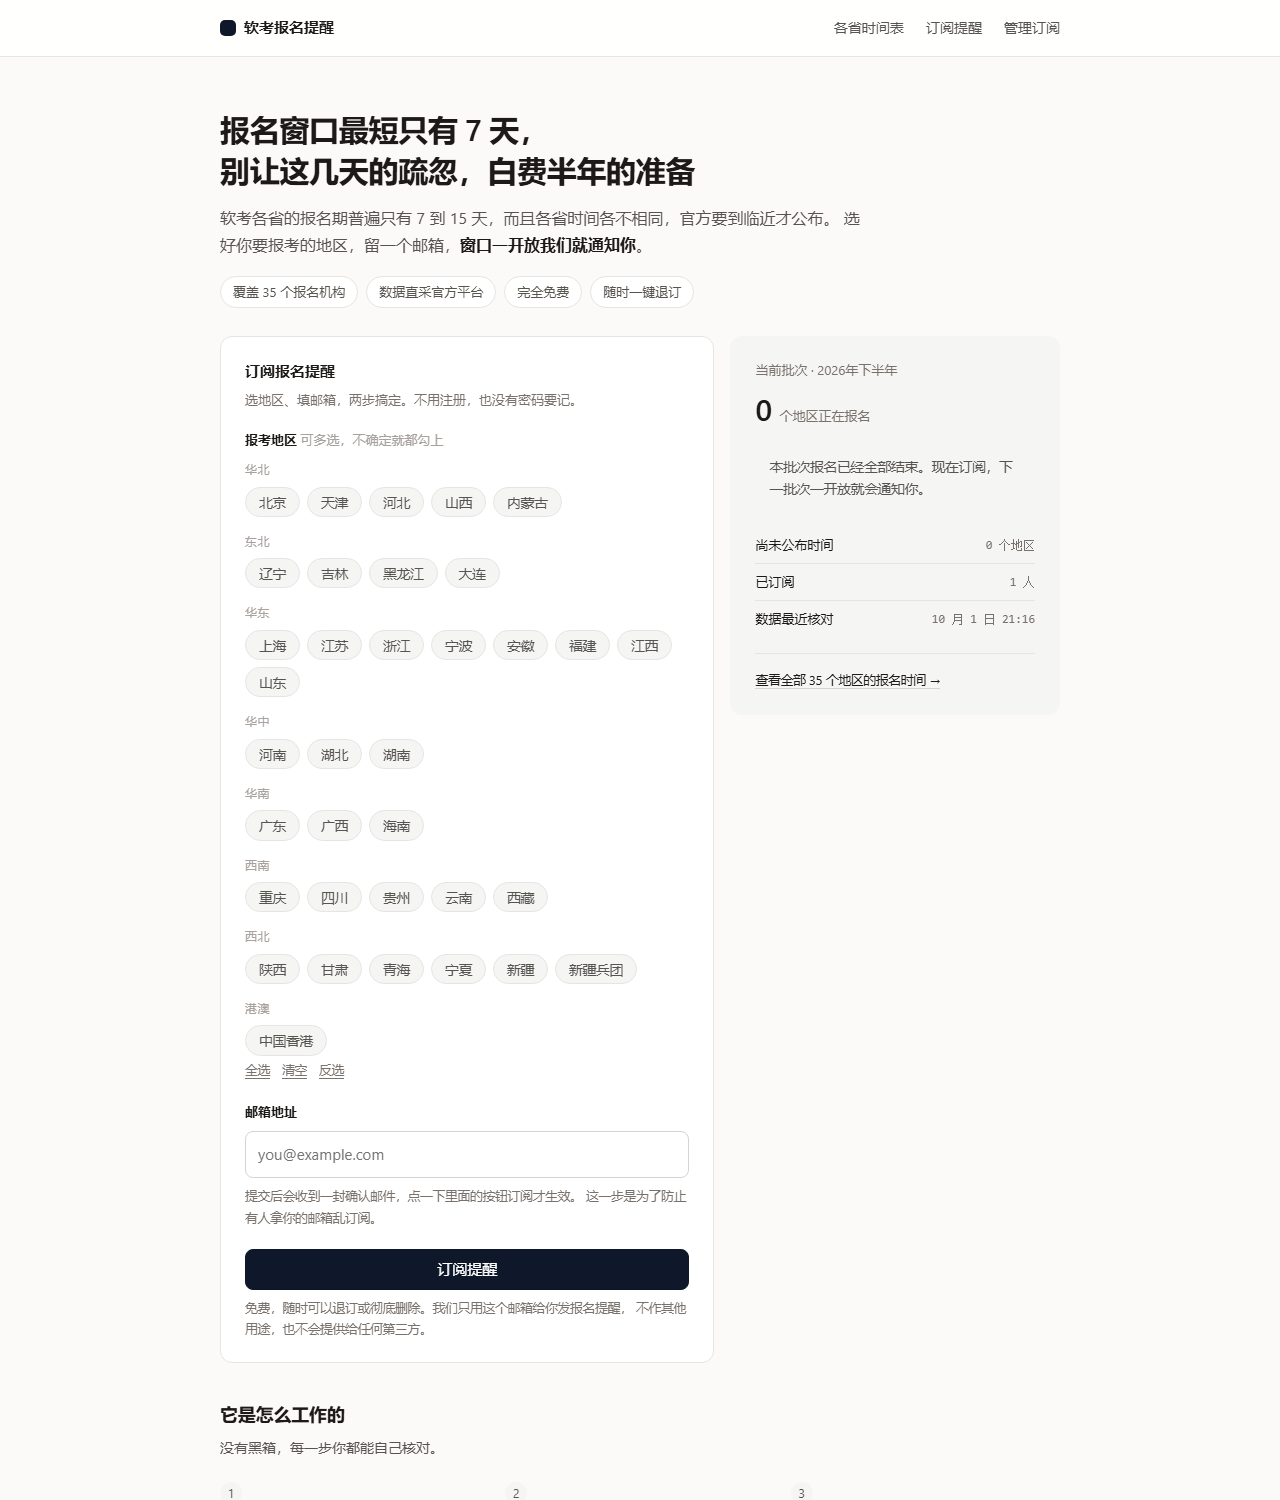
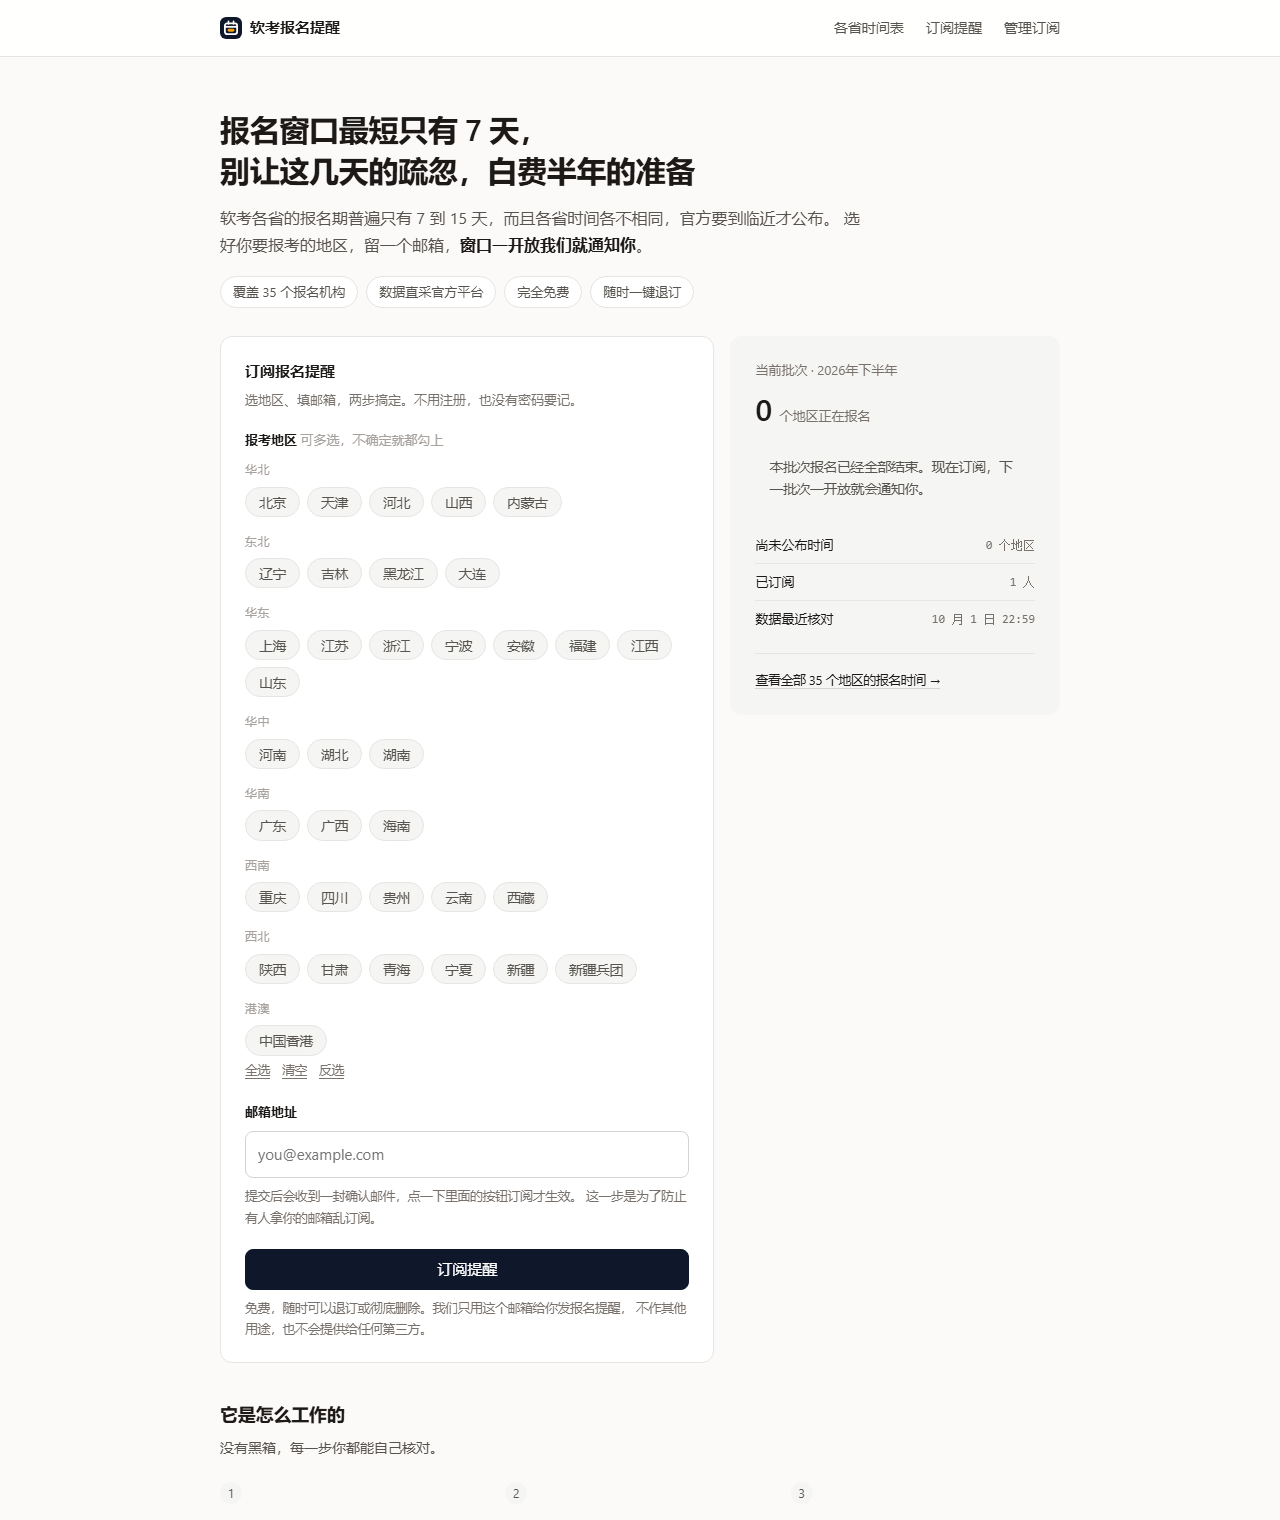
重新设计品牌标记：日历上标出「窗口期」
原来的页头标记是一个 16px 纯色方块，等于没有设计。

新标记（ruankao/static/logo.svg）
- 日历轮廓 + 两个挂环 + 标题栏分隔线，下半部分用琥珀色标出「窗口期」
- 页头与浏览器标签页共用这一个文件，favicon.svg 合并进来删掉

为什么是日历而不是抽象图形
- 这个产品的全部意义就是「窗口期很短、各省不同、没人替你盯着」，
  日历上那一条琥珀色就是被盯住的那一段。直白胜于巧妙。

设计过程（不是拍脑袋定的）
- 先做三个方向渲染出来实际看：倒计时弧+圆点 / 日历 / 铃铛
- 决定性的一组是 16px —— 浏览器标签页的真实大小。
  倒计时弧方案 128px 很漂亮，16px 糊成一团，淘汰；
  日历与铃铛都扛得住，选日历（更贴产品语义，铃铛太通用）
- 第二轮又淘汰了「日历+左右双色块」的变体：读起来像开关或进度条
- 深色标签栏压测：Chrome 深色主题是 #202124，与标记底色 #0f172a 很接近，
  所以辨识度必须靠白色内容，不能依赖色块边缘

两条约束已写进 DESIGN.md，免得日后被「顺手优化」掉：
16–32px 是目标尺寸不是 512px；挂环在小尺寸糊掉是故意的。

其余：README 标题带上了标记、截图用新页头重拍、
css 里 .brand-mark 只留尺寸（底色由 SVG 自带，叠加双层边）。

diff --git a/ruankao/templates/base.html b/ruankao/templates/base.html
@@ -5,18 +5,19 @@
 <meta name="viewport" content="width=device-width, initial-scale=1">
 <title>{% block title %}{{ settings.site_name }}{% endblock %}</title>
   <meta name="description" content="{% block description %}软考报名窗口期最短只有 7 天。选好报考省市留下邮箱，报名开放时我们通知你，随时可以取消。{% endblock %}">
-  <link rel="icon" type="image/svg+xml" href="{{ url_for('static', filename='favicon.svg') }}">
+  <link rel="icon" type="image/svg+xml" href="{{ url_for('static', filename='logo.svg') }}">
   <meta name="theme-color" content="#0f172a">
   <link rel="stylesheet" href="{{ url_for('static', filename='style.css') }}">
-</head>
-<body>
-
-<header class="site-header">
-  <div class="wrap header-inner">
-    <a class="brand" href="{{ url_for('public.index') }}">
-      <span class="brand-mark" aria-hidden="true"></span>
-      {{ settings.site_name }}
-    </a>
+  </head>
+  <body>
+  
+  <header class="site-header">
+    <div class="wrap header-inner">
+      <a class="brand" href="{{ url_for('public.index') }}">
+        <img class="brand-mark" src="{{ url_for('static', filename='logo.svg') }}"
+             width="22" height="22" alt="">
+        {{ settings.site_name }}
+      </a>
     <nav class="site-nav">
       <a href="{{ url_for('public.schedule') }}">各省时间表</a>
       <a href="{{ url_for('public.index') }}#subscribe">订阅提醒</a>

diff --git a/ruankao/static/style.css b/ruankao/static/style.css
@@ -75,13 +75,15 @@ a:hover { border-bottom-color: var(--ink-3); }
   border: 0;
 }
 
-.brand-mark {
-  width: 16px;
-  height: 16px;
-  border-radius: 5px;
-  background: var(--accent);
-  display: inline-block;
-}
+  .brand-mark {
+    /* 品牌标记是 SVG（static/logo.svg），自带深色圆角底板。
+       这里只负责尺寸——不要给它加 background 或 border-radius，
+       那会和 SVG 自己的底板叠出双层边。 */
+    width: 22px;
+    height: 22px;
+    display: block;
+    flex: none;
+  }
 
 .site-nav a {
   margin-left: 18px;

diff --git a/DESIGN.md b/DESIGN.md
@@ -188,6 +188,25 @@
    的定位不相称。
 5. **不把用户信息用于任何次要用途**。没有分析、没有画像、没有第三方共享。
 
+### 品牌标记
+
+`ruankao/static/logo.svg` —— **日历上标出「窗口期」**。页头与浏览器标签页共用这一个文件。
+
+选它而不是抽象图形，是因为这个产品的全部意义就是「窗口期很短、各省不同、没人替你盯着」，
+日历上那一条琥珀色就是被盯住的那一段。**直白胜于巧妙**：这是个工具，用户扫一眼就该
+明白它管什么。
+
+两条改动前必须知道的约束：
+
+1. **目标尺寸是 16–32px，不是 512px。** 设计时的判定依据是「16px 下还认不认得出来」，
+   而不是「放大了好不好看」。两个挂环在 16px 下会糊掉，这是**故意的**：
+   大尺寸补足「日历」语义，小尺寸退化成「圆角矩形 + 分隔线 + 琥珀块」，仍然成立。
+   第一轮的「倒计时弧 + 圆点」方案就是栽在这里——128px 很漂亮，16px 糊成一团。
+2. **要在深色标签栏下压测。** Chrome 深色主题的标签栏是 `#202124`，与标记底色
+   `#0f172a` 很接近。所以标记的辨识度必须靠**白色内容**，不能依赖色块边缘。
+
+配色沿用站点既有的三色：`#0f172a`（accent）、白、`#f59e0b`（琥珀，即「提醒」的语义色）。
+
 ## 六、反滥用与限流
 
 | 位置 | 限制 | 防的是什么 |

diff --git a/README.md b/README.md
@@ -1,4 +1,4 @@
-# 软考报名提醒
+# <img src="ruankao/static/logo.svg" width="30" height="30" alt=""> 软考报名提醒
 
 > 选好报考省市、留一个邮箱，软考报名窗口一开放就通知你。随时可以退订。
 
